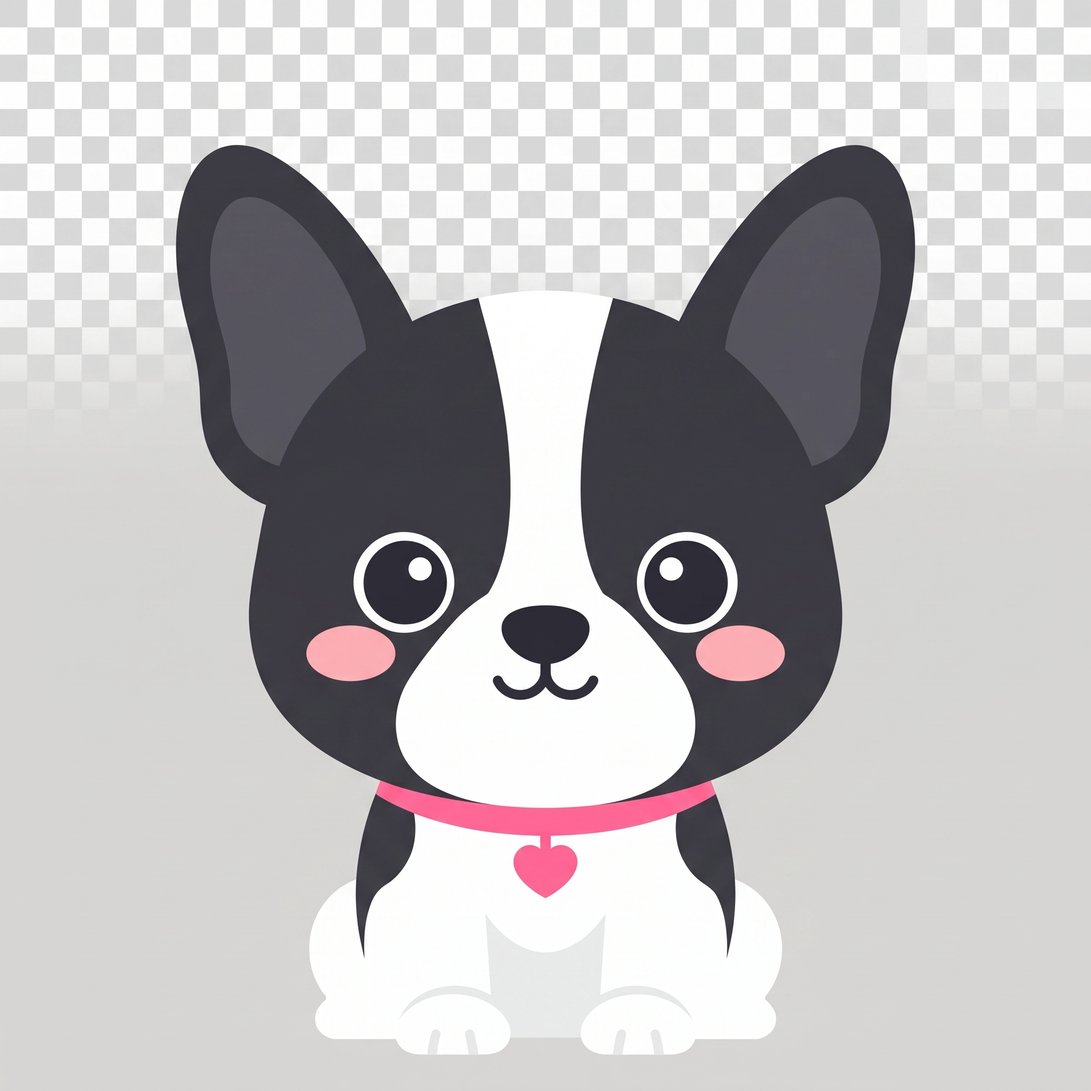
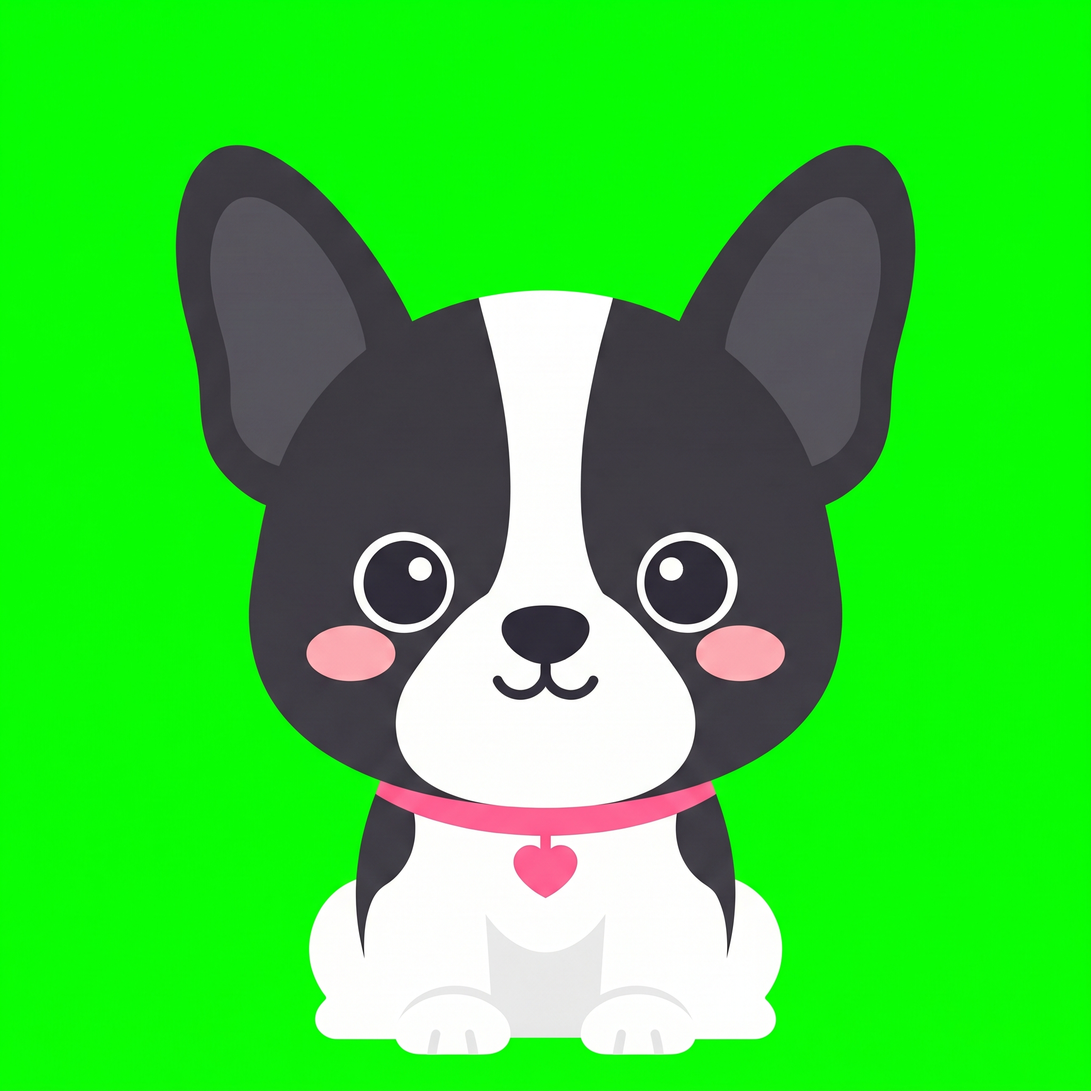
フレンチブルドッグ：Geminiで グリーンバックに さしかえて きりぬきを やりなおし

diff --git a/tools_make_dog_png.py b/tools_make_dog_png.py
@@ -551,13 +551,6 @@ if __name__ == '__main__':
         print(b)
         for stem, pose, th in POSES:
             src = find_src(os.path.join(SRC_ROOT, b), stem)
-            # フレンチブルは しろい からだの かげ（226〜240）を はいけいと まちがえて
-            # あしが けずれる。はいいろ(178〜224)と しろマス(238〜249)だけ はいけいに する。
-            # 04 は かげと はいけいの しろマスが おなじ いろ なので ふつうの まま。
-            if b == 'frenchbulldog' and stem != '04':
-                BG_RANGES[:] = [(LIGHT_MIN, 224), (238, 249)]
-            else:
-                BG_RANGES[:] = [(LIGHT_MIN, 249)]
             if not src:
                 print('  %-16s (%s.jpg が ないので とばす)' % (b + '_' + pose, stem))
                 continue

diff --git a/HANDOFF.md b/HANDOFF.md
@@ -19,12 +19,13 @@
   （`tools_make_dog_png.py plush` は全部を作り直すので重い。F・G は img へ直接コピー済み）
 - 手元の確認: チケットで F を取得、F コンプリート後に G が出る、までブラウザで確認済み。`park` クリア時の付与そのものは未プレイ（コードのみ）
 
-## フレンチブルの切り抜き（作り直し済み）
-- 原因：元絵 01〜03 は市松（グレー×白）背景で、白い体と背景の白マスがくっつき、体の影（226〜240）も背景に間違われて足先・縁がガビガビだった。04（そっぽ）は影と白マスが同じ色なので従来のまま、05（おやこ）は緑背景で問題なし
-- 市松は 2048px を 40マス（1マス 51.2px、縁は x=51.2k−1.2）。`tools_make_frenchbulldog.py` がこの格子を使って「周りをグレーのマスに囲まれた白マス」だけを背景にし、縁を削って輪郭をなめらかにする（lv1/lv3/lv5 を img に上書き）
-- 仕上げ `tools_fix_frenchbulldog.py`：おでこの白が頭のまるみからはみ出すのを切る／ごく小さなカケラを消す／縁の色を内側の色で塗り直してグレーの縁取りを消す
-- 作り直す手順：`python tools_make_frenchbulldog.py` → `python tools_fix_frenchbulldog.py`（`tools_make_dog_png.py frenchbulldog` を実行すると lv1/3/5 が元に戻るので、その後にこの2つを再実行）
-- 小さな残り：lv1 の頭のてっぺん（耳のつけ根）に細かい凹凸、右耳の横にごく小さなグレーの点
+## フレンチブルの切り抜き（グリーンバックで作り直し済み）
+- 元絵 01〜04 は市松（グレー×白）背景で、白い体と白マスが同色のため自動の切り抜きでは足先が必ず崩れた。
+  そこで Gemini（Claude in Chrome 経由）で 01〜03 を「背景だけ #00FF00 に置き換え」して作り直し、
+  `イラスト犬/frenchbulldog/01〜03.jpg` をそのグリーンバック版に差し替えた（05 は元から緑背景）
+- 元の市松版は `元絵_フレブル市松背景/` に退避（04 のそっぽは市松のまま・見た目に問題なし）
+- 作り直し：`python tools_make_dog_png.py frenchbulldog`（緑背景はそのまま透過される。手作業の補正は不要）
+- 今後、白い体の犬を足す時も最初から「グリーンバックで出力」を Gemini に頼むのが確実
 
 ## 決定事項
 - 「トップ画面」＝犬を表示するマップ画面と解釈（違えば移す）
